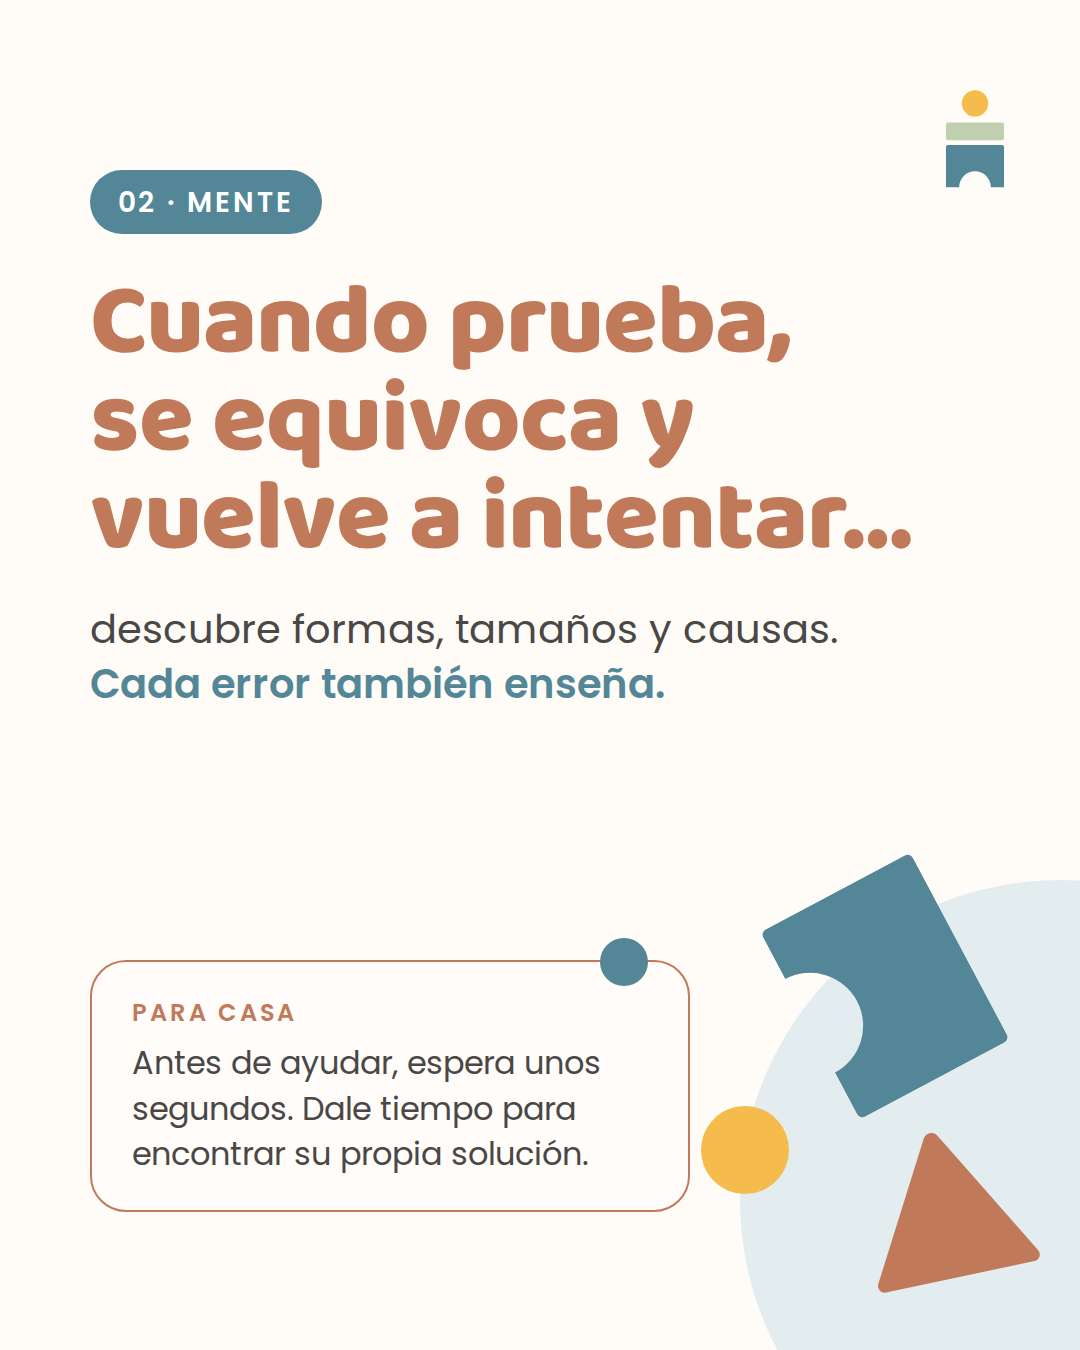
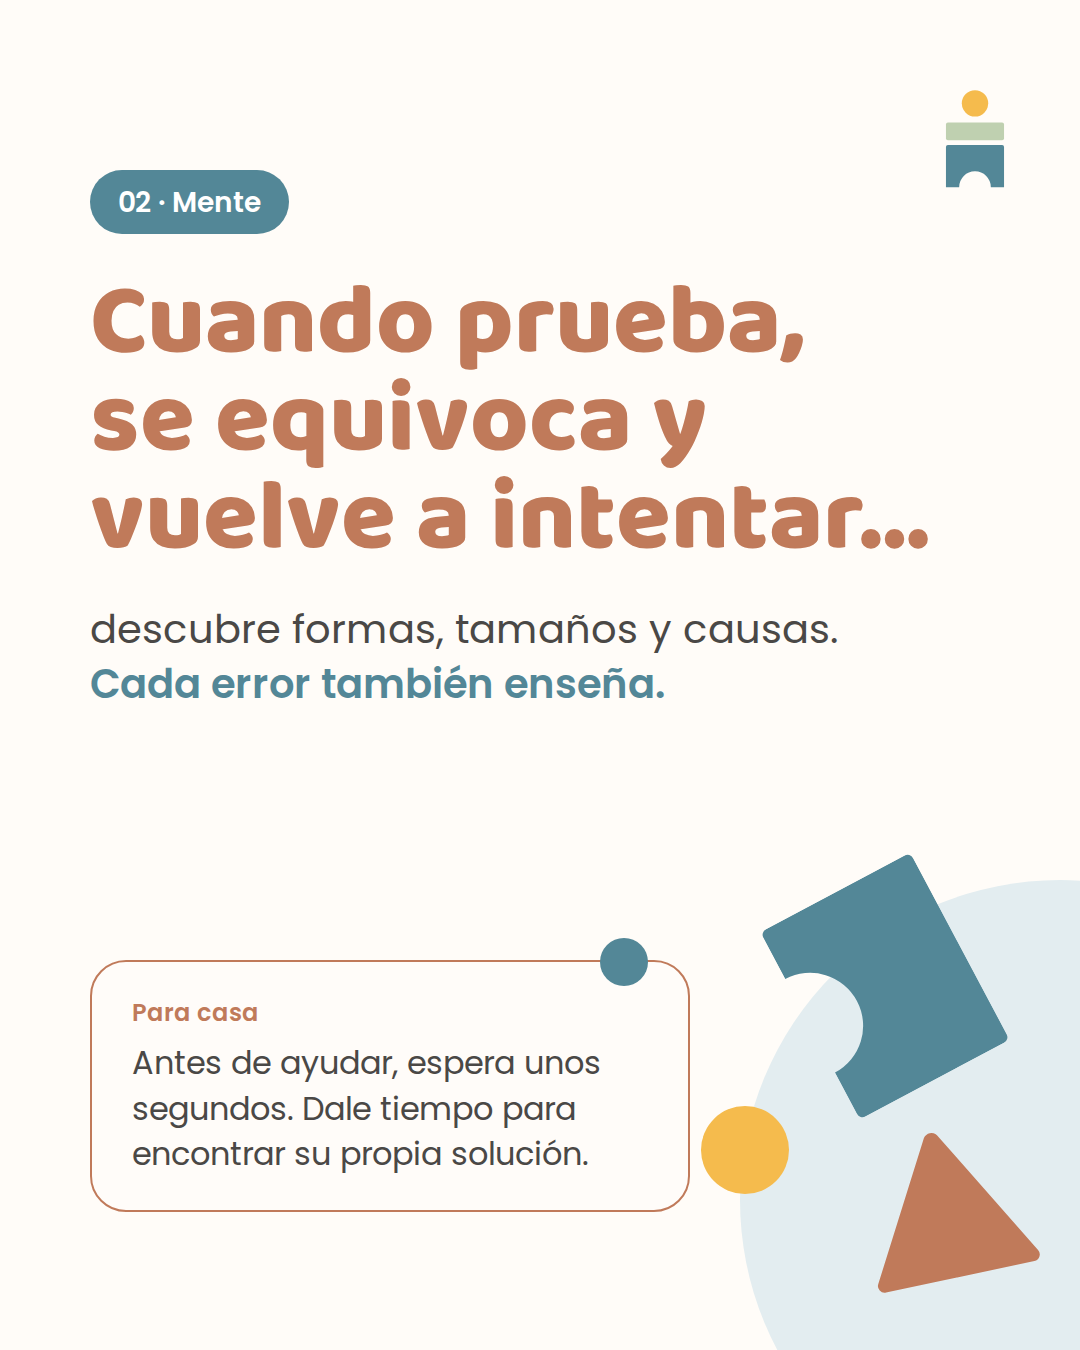
Integrio carousels: Andes Rounded headings, no tracking or all-caps
Match the brand's real Instagram feed: headline font stack starts with
Andes Rounded, letter-spacing and uppercase titles removed, keywords
shown as soft lowercase tags.

Claude-Session: https://claude.ai/code/session_01GxHxZEsinBU6gnmuJez2MN

Changed region(s): [[0.1528, 0.1867, 0.8556, 0.4044], [0.1222, 0.1244, 0.3056, 0.1867], [0.1222, 0.7467, 0.275, 0.7778]]

diff --git a/integrio/carrusel-amarillo/carrusel.html b/integrio/carrusel-amarillo/carrusel.html
@@ -4,6 +4,7 @@
 <meta charset="utf-8">
 <title>Integrio — Exploramos el amarillo</title>
 <style>
+  @font-face { font-family: 'Andes Rounded'; font-weight: 800; src: local('Andes Rounded Bold'), local('AndesRounded-Bold'), url(fonts/AndesRounded-Bold.woff2) format('woff2'), url(fonts/AndesRounded-Bold.otf) format('opentype'); }
   @font-face { font-family: 'Baloo 2'; font-weight: 800; src: url(fonts/Baloo2-800.woff2) format('woff2'); }
   @font-face { font-family: 'Poppins'; font-weight: 300; src: url(fonts/Poppins-300.woff2) format('woff2'); }
   @font-face { font-family: 'Poppins'; font-weight: 400; src: url(fonts/Poppins-400.woff2) format('woff2'); }
@@ -26,7 +27,7 @@
 
   .slide { position: relative; width: 1080px; height: 1350px; overflow: hidden; background: var(--crema); color: var(--texto); font-family: 'Poppins', sans-serif; }
   .abs { position: absolute; }
-  .h { font-family: 'Baloo 2', sans-serif; font-weight: 800; line-height: .98; letter-spacing: -1px; }
+  .h { font-family: 'Andes Rounded', 'Baloo 2', sans-serif; font-weight: 800; line-height: .98; }
   .t { color: var(--terracota); }
   .v { color: var(--verde-txt); }
   .p { font-size: 34px; line-height: 1.45; font-weight: 400; }
@@ -45,14 +46,11 @@
   .sensorial { background-image: url(fotos/sensorial.webp); }
 
   /* Palabras clave */
-  .kw { display: flex; align-items: center; gap: 22px; font-weight: 600; font-size: 25px; letter-spacing: 4.5px; color: var(--terracota); text-transform: uppercase; }
-  .kw i { width: 12px; height: 12px; border-radius: 50%; background: var(--amarillo); display: block; flex: none; }
-  .kw-v { display: flex; flex-direction: column; gap: 20px; font-weight: 600; font-size: 25px; letter-spacing: 4.5px; color: var(--terracota); text-transform: uppercase; }
-  .kw-v span { display: flex; align-items: center; gap: 18px; }
-  .kw-v span::before { content: ''; width: 34px; height: 12px; border-radius: 3px; background: var(--amarillo); flex: none; }
+  .kw, .kw-v { display: flex; gap: 14px; font-weight: 500; font-size: 27px; color: var(--terracota); }
+  .kw-v { flex-direction: column; align-items: flex-start; }
+  .kw span, .kw-v span { background: #f8eadf; border-radius: 40px; padding: 9px 26px 8px; }
 
   .iso { position: absolute; width: 50px; }
-  .num { position: absolute; font-weight: 500; font-size: 22px; letter-spacing: 4px; color: var(--terracota); }
 </style>
 </head>
 <body>
@@ -73,8 +71,8 @@
        clip-path:path('M0 0H1080V905C930 975 770 920 600 937C420 955 220 1000 0 935Z')"></div>
   <div class="abs" style="left:-60px;top:1040px;width:140px;height:140px;border-radius:50%;background:var(--amarillo)"></div>
   <div class="abs" style="left:150px;top:1035px">
-    <div class="h t" style="font-size:104px;letter-spacing:0">EXPLORAMOS</div>
-    <div class="h v" style="font-size:104px;letter-spacing:0;margin-top:-6px">EL AMARILLO</div>
+    <div class="h t" style="font-size:118px">Exploramos</div>
+    <div class="h v" style="font-size:118px">el amarillo</div>
     <p class="p" style="margin-top:16px;font-size:32px">Un color, muchas oportunidades para aprender.</p>
   </div>
   <svg class="iso" style="right:80px;top:1048px" viewBox="0 0 100 150"><use href="#iso"/></svg>
@@ -89,7 +87,7 @@
     <p class="p" style="margin-top:30px;width:860px">Al buscar y explorar elementos amarillos, comenzamos a reconocer, diferenciar y asociar el color con nuestro entorno.</p>
   </div>
   <div class="abs ph mural" style="--s:1;--ox:170;--oy:520;left:390px;top:650px;width:630px;height:700px;border-radius:315px 315px 0 0"></div>
-  <div class="kw-v abs" style="left:80px;top:1080px;font-size:22px;letter-spacing:4px">
+  <div class="kw-v abs" style="left:80px;top:1060px">
     <span>Reconocer</span><span>Diferenciar</span><span>Asociar</span>
   </div>
 </section>
@@ -98,11 +96,11 @@
 <section class="slide" id="s3">
   <div class="abs ph botella" style="--s:0.9;--ox:150;--oy:60;left:470px;top:0;width:610px;height:1350px;border-radius:300px 0 0 0"></div>
   <div class="abs" style="left:80px;top:150px;width:370px">
-    <div class="h t" style="font-size:84px">Pensamos</div>
-    <div class="h v" style="font-size:84px">mientras jugamos</div>
+    <div class="h t" style="font-size:78px">Pensamos</div>
+    <div class="h v" style="font-size:78px">mientras jugamos</div>
     <p class="p" style="margin-top:34px;font-size:31px">Apilar, encajar, introducir, sacar y volver a probar convierte el juego en pequeños desafíos.</p>
   </div>
-  <div class="kw-v abs" style="left:80px;top:1010px;font-size:23px">
+  <div class="kw-v abs" style="left:80px;top:990px">
     <span>Atención</span><span>Concentración</span><span>Resolución</span>
   </div>
   <svg class="iso" style="left:80px;top:70px;width:40px" viewBox="0 0 100 150"><use href="#iso"/></svg>
@@ -120,7 +118,7 @@
   <div class="abs ph torre" style="--s:1.25;--ox:160;--oy:470;left:80px;top:640px;width:540px;height:540px;border-radius:50%"></div>
   <div class="abs ph flores" style="--s:1.05;--ox:300;--oy:700;left:670px;top:585px;width:320px;height:320px;border-radius:50%"></div>
   <div class="abs ph botella" style="--s:1.05;--ox:400;--oy:810;left:660px;top:925px;width:270px;height:270px;border-radius:50%"></div>
-  <div class="kw abs" style="left:80px;top:1240px">Coordinación<i></i>Precisión<i></i>Motricidad</div>
+  <div class="kw abs" style="left:80px;top:1240px"><span>Coordinación</span><span>Precisión</span><span>Motricidad</span></div>
 </section>
 
 <!-- 5 · EXPLORACIÓN SENSORIAL -->
@@ -131,7 +129,7 @@
     <div class="h t" style="font-size:96px">Aprendemos</div><div class="h v" style="font-size:96px">con los sentidos</div>
     <p class="p" style="margin-top:20px;width:900px;font-size:31px">Texturas, tamaños, formas y materiales diferentes invitan a comparar, experimentar y descubrir.</p>
   </div>
-  <div class="kw abs" style="left:80px;top:1262px">Explorar<i></i>Comparar<i></i>Descubrir</div>
+  <div class="kw abs" style="left:80px;top:1262px"><span>Explorar</span><span>Comparar</span><span>Descubrir</span></div>
   <svg class="iso" style="right:70px;top:70px" viewBox="0 0 100 150"><use href="#iso"/></svg>
 </section>
 
@@ -142,7 +140,7 @@
     <div class="h"><span class="t" style="font-size:92px">También aprendemos</span><br><span class="v" style="font-size:92px">del otro</span></div>
     <p class="p" style="margin-top:22px;width:900px;font-size:31px">Compartir materiales, observar a otros y construir juntos favorece la comunicación y la cooperación.</p>
   </div>
-  <div class="kw abs" style="left:80px;top:1262px">Compartir<i></i>Comunicar<i></i>Cooperar</div>
+  <div class="kw abs" style="left:80px;top:1262px"><span>Compartir</span><span>Comunicar</span><span>Cooperar</span></div>
   <svg class="iso" style="right:80px;top:1240px;width:40px" viewBox="0 0 100 150"><use href="#iso"/></svg>
 </section>
 
@@ -157,7 +155,7 @@
   <div class="abs ph botella"   style="--s:0.9;--ox:250;--oy:200;left:80px;top:610px;width:290px;height:580px;border-radius:145px 145px 24px 24px"></div>
   <div class="abs ph mural"     style="--s:0.9;--ox:220;--oy:560;left:395px;top:610px;width:290px;height:580px;border-radius:145px 145px 24px 24px"></div>
   <div class="abs ph sensorial" style="--s:0.9;--ox:560;--oy:560;left:710px;top:610px;width:290px;height:580px;border-radius:145px 145px 24px 24px"></div>
-  <div class="kw abs" style="left:80px;top:1245px">Elegir<i></i>Probar<i></i>Resolver</div>
+  <div class="kw abs" style="left:80px;top:1245px"><span>Elegir</span><span>Probar</span><span>Resolver</span></div>
 </section>
 
 <!-- 8 · CIERRE -->
@@ -176,16 +174,16 @@
     <div style="width:80px;height:6px;border-radius:3px;background:var(--amarillo);margin:52px auto 0"></div>
     <div class="h v" style="font-size:62px;line-height:1.08;margin-top:44px">Así se ve el aprendizaje cuando nace de la experiencia.</div>
   </div>
-  <div class="abs" style="left:0;right:0;top:1085px;display:flex;align-items:center;justify-content:center;gap:14px;font-weight:600;font-size:21px;letter-spacing:3px;color:var(--terracota)">
-    <span>JUEGA</span><svg width="26" height="14" viewBox="0 0 26 14"><path d="M1 7h21M16 1l6 6-6 6" stroke="#f5bb4d" stroke-width="3" fill="none" stroke-linecap="round" stroke-linejoin="round"/></svg>
-    <span>EXPLORA</span><svg width="26" height="14" viewBox="0 0 26 14"><path d="M1 7h21M16 1l6 6-6 6" stroke="#f5bb4d" stroke-width="3" fill="none" stroke-linecap="round" stroke-linejoin="round"/></svg>
-    <span>PIENSA</span><svg width="26" height="14" viewBox="0 0 26 14"><path d="M1 7h21M16 1l6 6-6 6" stroke="#f5bb4d" stroke-width="3" fill="none" stroke-linecap="round" stroke-linejoin="round"/></svg>
-    <span>DESCUBRE</span><svg width="26" height="14" viewBox="0 0 26 14"><path d="M1 7h21M16 1l6 6-6 6" stroke="#f5bb4d" stroke-width="3" fill="none" stroke-linecap="round" stroke-linejoin="round"/></svg>
-    <span>APRENDE</span>
+  <div class="abs" style="left:0;right:0;top:1085px;display:flex;align-items:center;justify-content:center;gap:14px;font-weight:500;font-size:26px;color:var(--terracota)">
+    <span>Juega</span><svg width="26" height="14" viewBox="0 0 26 14"><path d="M1 7h21M16 1l6 6-6 6" stroke="#f5bb4d" stroke-width="3" fill="none" stroke-linecap="round" stroke-linejoin="round"/></svg>
+    <span>Explora</span><svg width="26" height="14" viewBox="0 0 26 14"><path d="M1 7h21M16 1l6 6-6 6" stroke="#f5bb4d" stroke-width="3" fill="none" stroke-linecap="round" stroke-linejoin="round"/></svg>
+    <span>Piensa</span><svg width="26" height="14" viewBox="0 0 26 14"><path d="M1 7h21M16 1l6 6-6 6" stroke="#f5bb4d" stroke-width="3" fill="none" stroke-linecap="round" stroke-linejoin="round"/></svg>
+    <span>Descubre</span><svg width="26" height="14" viewBox="0 0 26 14"><path d="M1 7h21M16 1l6 6-6 6" stroke="#f5bb4d" stroke-width="3" fill="none" stroke-linecap="round" stroke-linejoin="round"/></svg>
+    <span>Aprende</span>
   </div>
   <div class="abs" style="left:0;right:0;bottom:80px;display:flex;align-items:center;justify-content:center;gap:16px">
     <svg width="28" height="42" viewBox="0 0 100 150"><use href="#iso"/></svg>
-    <span style="font-weight:600;font-size:21px;letter-spacing:4px;color:var(--terracota)">INTEGRIO · CRECIENDO JUNTOS</span>
+    <span style="font-weight:500;font-size:24px;color:var(--terracota)">Integrio · Creciendo juntos</span>
   </div>
 </section>
 

diff --git a/integrio/carrusel-juego/carrusel.html b/integrio/carrusel-juego/carrusel.html
@@ -4,6 +4,7 @@
 <meta charset="utf-8">
 <title>Integrio — Carrusel: jugar es aprender</title>
 <style>
+  @font-face { font-family: 'Andes Rounded'; font-weight: 800; src: local('Andes Rounded Bold'), local('AndesRounded-Bold'), url(fonts/AndesRounded-Bold.woff2) format('woff2'), url(fonts/AndesRounded-Bold.otf) format('opentype'); }
   @font-face { font-family: 'Baloo 2'; font-weight: 800; src: url(fonts/Baloo2-800.woff2) format('woff2'); }
   @font-face { font-family: 'Poppins'; font-weight: 300; src: url(fonts/Poppins-300.woff2) format('woff2'); }
   @font-face { font-family: 'Poppins'; font-weight: 400; src: url(fonts/Poppins-400.woff2) format('woff2'); }
@@ -31,7 +32,7 @@
     background: var(--crema); color: var(--texto);
     font-family: 'Poppins', sans-serif;
   }
-  .h { font-family: 'Baloo 2', sans-serif; font-weight: 800; line-height: .98; letter-spacing: -1px; }
+  .h { font-family: 'Andes Rounded', 'Baloo 2', sans-serif; font-weight: 800; line-height: .98; }
   .t { color: var(--terracota); }
   .v { color: var(--verde-txt); }
   .tl { color: var(--teal); }
@@ -42,14 +43,14 @@
   .body { font-size: 40px; line-height: 1.38; font-weight: 400; }
   .chip {
     display: inline-flex; align-items: center; gap: 16px;
-    font-weight: 600; font-size: 28px; letter-spacing: 3px; text-transform: uppercase;
+    font-weight: 600; font-size: 28px;
     padding: 12px 28px 10px; border-radius: 40px; color: #fff;
   }
   .tip {
     position: relative; border: 2.5px solid var(--terracota); border-radius: 36px;
     padding: 34px 40px 34px; font-size: 32px; line-height: 1.42; background: rgba(255,252,248,.92);
   }
-  .tip b { display: block; font-weight: 600; font-size: 24px; letter-spacing: 3px; text-transform: uppercase; color: var(--terracota); margin-bottom: 10px; }
+  .tip b { display: block; font-weight: 600; font-size: 24px; color: var(--terracota); margin-bottom: 10px; }
   .tip .dot { position: absolute; top: -26px; right: 38px; width: 52px; height: 52px; }
 </style>
 </head>
@@ -109,8 +110,8 @@
     <circle cx="214" cy="40" r="38" style="fill:var(--amarillo)"/>
   </svg>
 
-  <div style="position:absolute;left:90px;bottom:96px;display:flex;align-items:center;gap:18px;font-weight:500;font-size:28px;color:var(--terracota);letter-spacing:2px">
-    DESLIZA
+  <div style="position:absolute;left:90px;bottom:96px;display:flex;align-items:center;gap:18px;font-weight:500;font-size:28px;color:var(--terracota);">
+    Desliza
     <svg width="64" height="24" viewBox="0 0 64 24"><path d="M2 12h56M46 2l12 10-12 10" style="stroke:var(--terracota)" stroke-width="4" fill="none" stroke-linecap="round" stroke-linejoin="round"/></svg>
   </div>
 </section>
@@ -254,7 +255,7 @@
     <svg width="74" height="111" viewBox="0 0 100 150"><use href="#iso-w"/></svg>
     <div class="h" style="font-size:96px;margin-top:40px;line-height:1.02">Los primeros años importan, acompañarlos lo cambia todo.</div>
     <p style="font-size:34px;line-height:1.45;margin:48px auto 0;width:760px;font-weight:400">Guarda este post y compártelo con quien acompaña a un niño.</p>
-    <p style="font-size:26px;letter-spacing:5px;font-weight:600;margin-top:56px;opacity:.95">INTEGRIO · CRECIENDO JUNTOS</p>
+    <p style="font-size:26px;font-weight:600;margin-top:56px;opacity:.95">Integrio · Creciendo juntos</p>
   </div>
 </section>
 

diff --git a/integrio/carrusel-juego/README.md b/integrio/carrusel-juego/README.md
@@ -35,4 +35,5 @@ Carrusel de Instagram de 7 láminas en formato 4:5 (1080×1350), hecho con el br
 - **Personalidad:** cálido · innovador · confiable. Minimalismo emocional, paleta calmada, sensación de orden.
 - **Gráficos:** los bloques de madera del isotipo (círculo, barra, arco, bloque en "C", triángulo), como figuras sueltas tipo confeti o apiladas. En publicaciones va solo el isotipo, en la esquina superior derecha.
 - **Voz:** acompañar, no imponer. Se habla a las familias con empatía, sin juzgar ni usar diagnósticos. Frases cortas.
-- **Tipografía:** los titulares usan *Baloo 2 ExtraBold* como la alternativa gratuita más parecida a la tipografía display de la marca. El texto usa *Poppins*. Si Complemento Studio entrega la fuente oficial, solo hay que cambiar el `@font-face` en `carrusel.html`.
+- **Tipografía:** los titulares usan **Andes Rounded**, la fuente oficial. Mientras sus archivos no estén en `fonts/`, se muestra *Baloo 2* como respaldo. El texto usa *Poppins*.
+- **Estilo de texto:** sin espaciado extra entre letras y sin títulos en mayúsculas. Las etiquetas van en minúscula.

diff --git a/integrio/carrusel-amarillo/README.md b/integrio/carrusel-amarillo/README.md
@@ -19,7 +19,9 @@
 | 7 | Ellos deciden cómo explorar | Tríptico: tres niños, tres caminos | botella · mural · sensorial |
 | 8 | Cierre | Resumen en círculos + mensaje + JUEGA → APRENDE + firma | las 5 |
 
-Recursos comunes: titular terracota + verde salvia (como en los posts actuales), palabras clave en mayúsculas espaciadas con acentos amarillos, isotipo discreto y mucho espacio libre.
+Recursos comunes: titular terracota + verde salvia (como en los posts actuales), palabras clave como etiquetas suaves en minúscula, isotipo discreto y mucho espacio libre. Sin espaciado extra entre letras ni títulos en mayúsculas.
+
+**Tipografía:** los titulares usan **Andes Rounded** (fuente oficial). Para que se exporte con ella, copia `AndesRounded-Bold.woff2` u `.otf` en `carrusel-juego/fonts/`; mientras tanto se muestra *Baloo 2* como respaldo.
 
 ## Copy para la publicación
 
